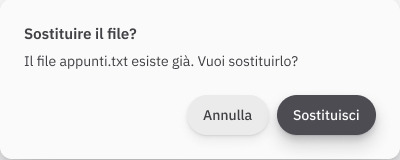
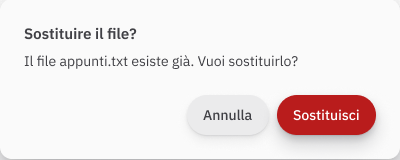
ApriSalva: pulsante Sostituisci Pericolo come in libreria, titolo dell'Avviso tenuto

Changed region(s): [[0.69, 0.5938, 0.96, 0.8438]]

diff --git a/disegni/ApriSalva/descrizione.md b/disegni/ApriSalva/descrizione.md
@@ -47,14 +47,14 @@ Frame verticale (libreria "mini finestra", effetti di finestra della libreria), 
 Titolo finestra (Mini), Indietro e avanti, Tabella 105:446 (Riga di tabella), Pulsante 92:1001, Campo 93:970, Velo della finestra 138:455 (solo nella finestra dietro). Variabili: Semantici (colori), Misure (spazio/8, spazio/16, raggio/pannello).
 
 ## Salva, il file esiste gia: richiesta "Sostituire il file?"
-Decisioni della persona (17 novembre 2026): in "Salva", se il file con quel nome esiste gia, si chiede con una PICCOLA FINESTRA SOPRA la finestra "Salva", con due pulsanti: "Annulla" e "Sostituisci". La finestra senza titolo ("blank") e la stessa forma degli avvisi: si usa il componente Avviso, Scelte=Due, con le sue misure, senza cambiarlo. Nessun'altra variante.
+Decisioni della persona (17 novembre 2026): in "Salva", se il file con quel nome esiste gia, si chiede con una PICCOLA FINESTRA SOPRA la finestra "Salva", con due pulsanti: "Annulla" e "Sostituisci". La finestra senza titolo ("blank") e la stessa forma degli avvisi: si usa il componente Avviso, Scelte=Due, con le sue misure, senza cambiarlo. Nessun'altra variante. Regola: varianti e stili dei componenti non si cambiano mai rispetto alla libreria senza chiedere (il pulsante Sostituisci resta Pericolo, come nel componente).
 
 - Schermata: 298:992 "Salva – sostituire il file?" (pagina 289:674, x 3300, 1024 x 664, padding spazio/32). Copia di "Salva – con nome" 293:2836, con il campo Nome "appunti.txt" (il file che esiste gia).
 - Ordine dei livelli: Finestra Files (dietro) 298:993, Velo della finestra 298:1016 (960 x 600), Finestra Salva 298:1017 (480 x 469, x 272 y 98), Velo della finestra Salva 298:1300 (istanza del componente Velo 138:455, assoluta, 480 x 469 sulla finestra Salva), Avviso 302:1267.
 - Avviso 302:1267: istanza del componente Avviso 185:3085, Scelte=Due (132:1063), 400 x 160, assoluta a x 312 y 253 nella cornice (centrata sulla finestra Salva, 272+40 e 98+155). Misure del componente, non toccate: padding spazio/24, gap spazio/24, fondo pieno superficie/elevata, effetti di finestra della libreria.
   - Testi (gap spazio/8): "Titolo" "Sostituire il file?" e "Messaggio" "Il file appunti.txt esiste già. Vuoi sostituirlo?" (testo provvisorio, la persona dara quello definitivo). Il Messaggio e colorato testo/primario (Semantici), invece del testo/secondario del componente.
-  - Il componente Avviso non ha una proprieta per nascondere il titolo: resta, con la domanda "Sostituire il file?".
-  - Azioni (a sinistra del bordo destro, gap spazio/8): Pulsante Secondario M Stato=Normale "Annulla" + Pulsante M Primario Normale "Sostituisci" (nel componente era Pericolo: cambiato il tipo, il testo e l'etichetta).
+  - Il componente Avviso non ha una proprieta per nascondere il titolo: resta, con il testo "Sostituire il file?". Decisione della persona: il titolo del componente si tiene.
+  - Azioni (a sinistra del bordo destro, gap spazio/8): Pulsante Secondario M Stato=Normale "Annulla" + Pulsante M Pericolo Normale "Sostituisci" (come nel componente della libreria: cambiato solo il testo).
   - Altezza: 24 + 48 (testi: 20 + 8 + 20) + 24 + 40 + 24 = 160.
 - Componenti: Avviso 185:3085, Pulsante 92:1001, Velo della finestra 138:455, Campo 93:970 (Salva). Variabili: Semantici (colori), Misure.
 - Nella finestra Salva sotto "Annulla" e in Stato=Sopra (come nell'originale 293:3060): lasciato com'e.
